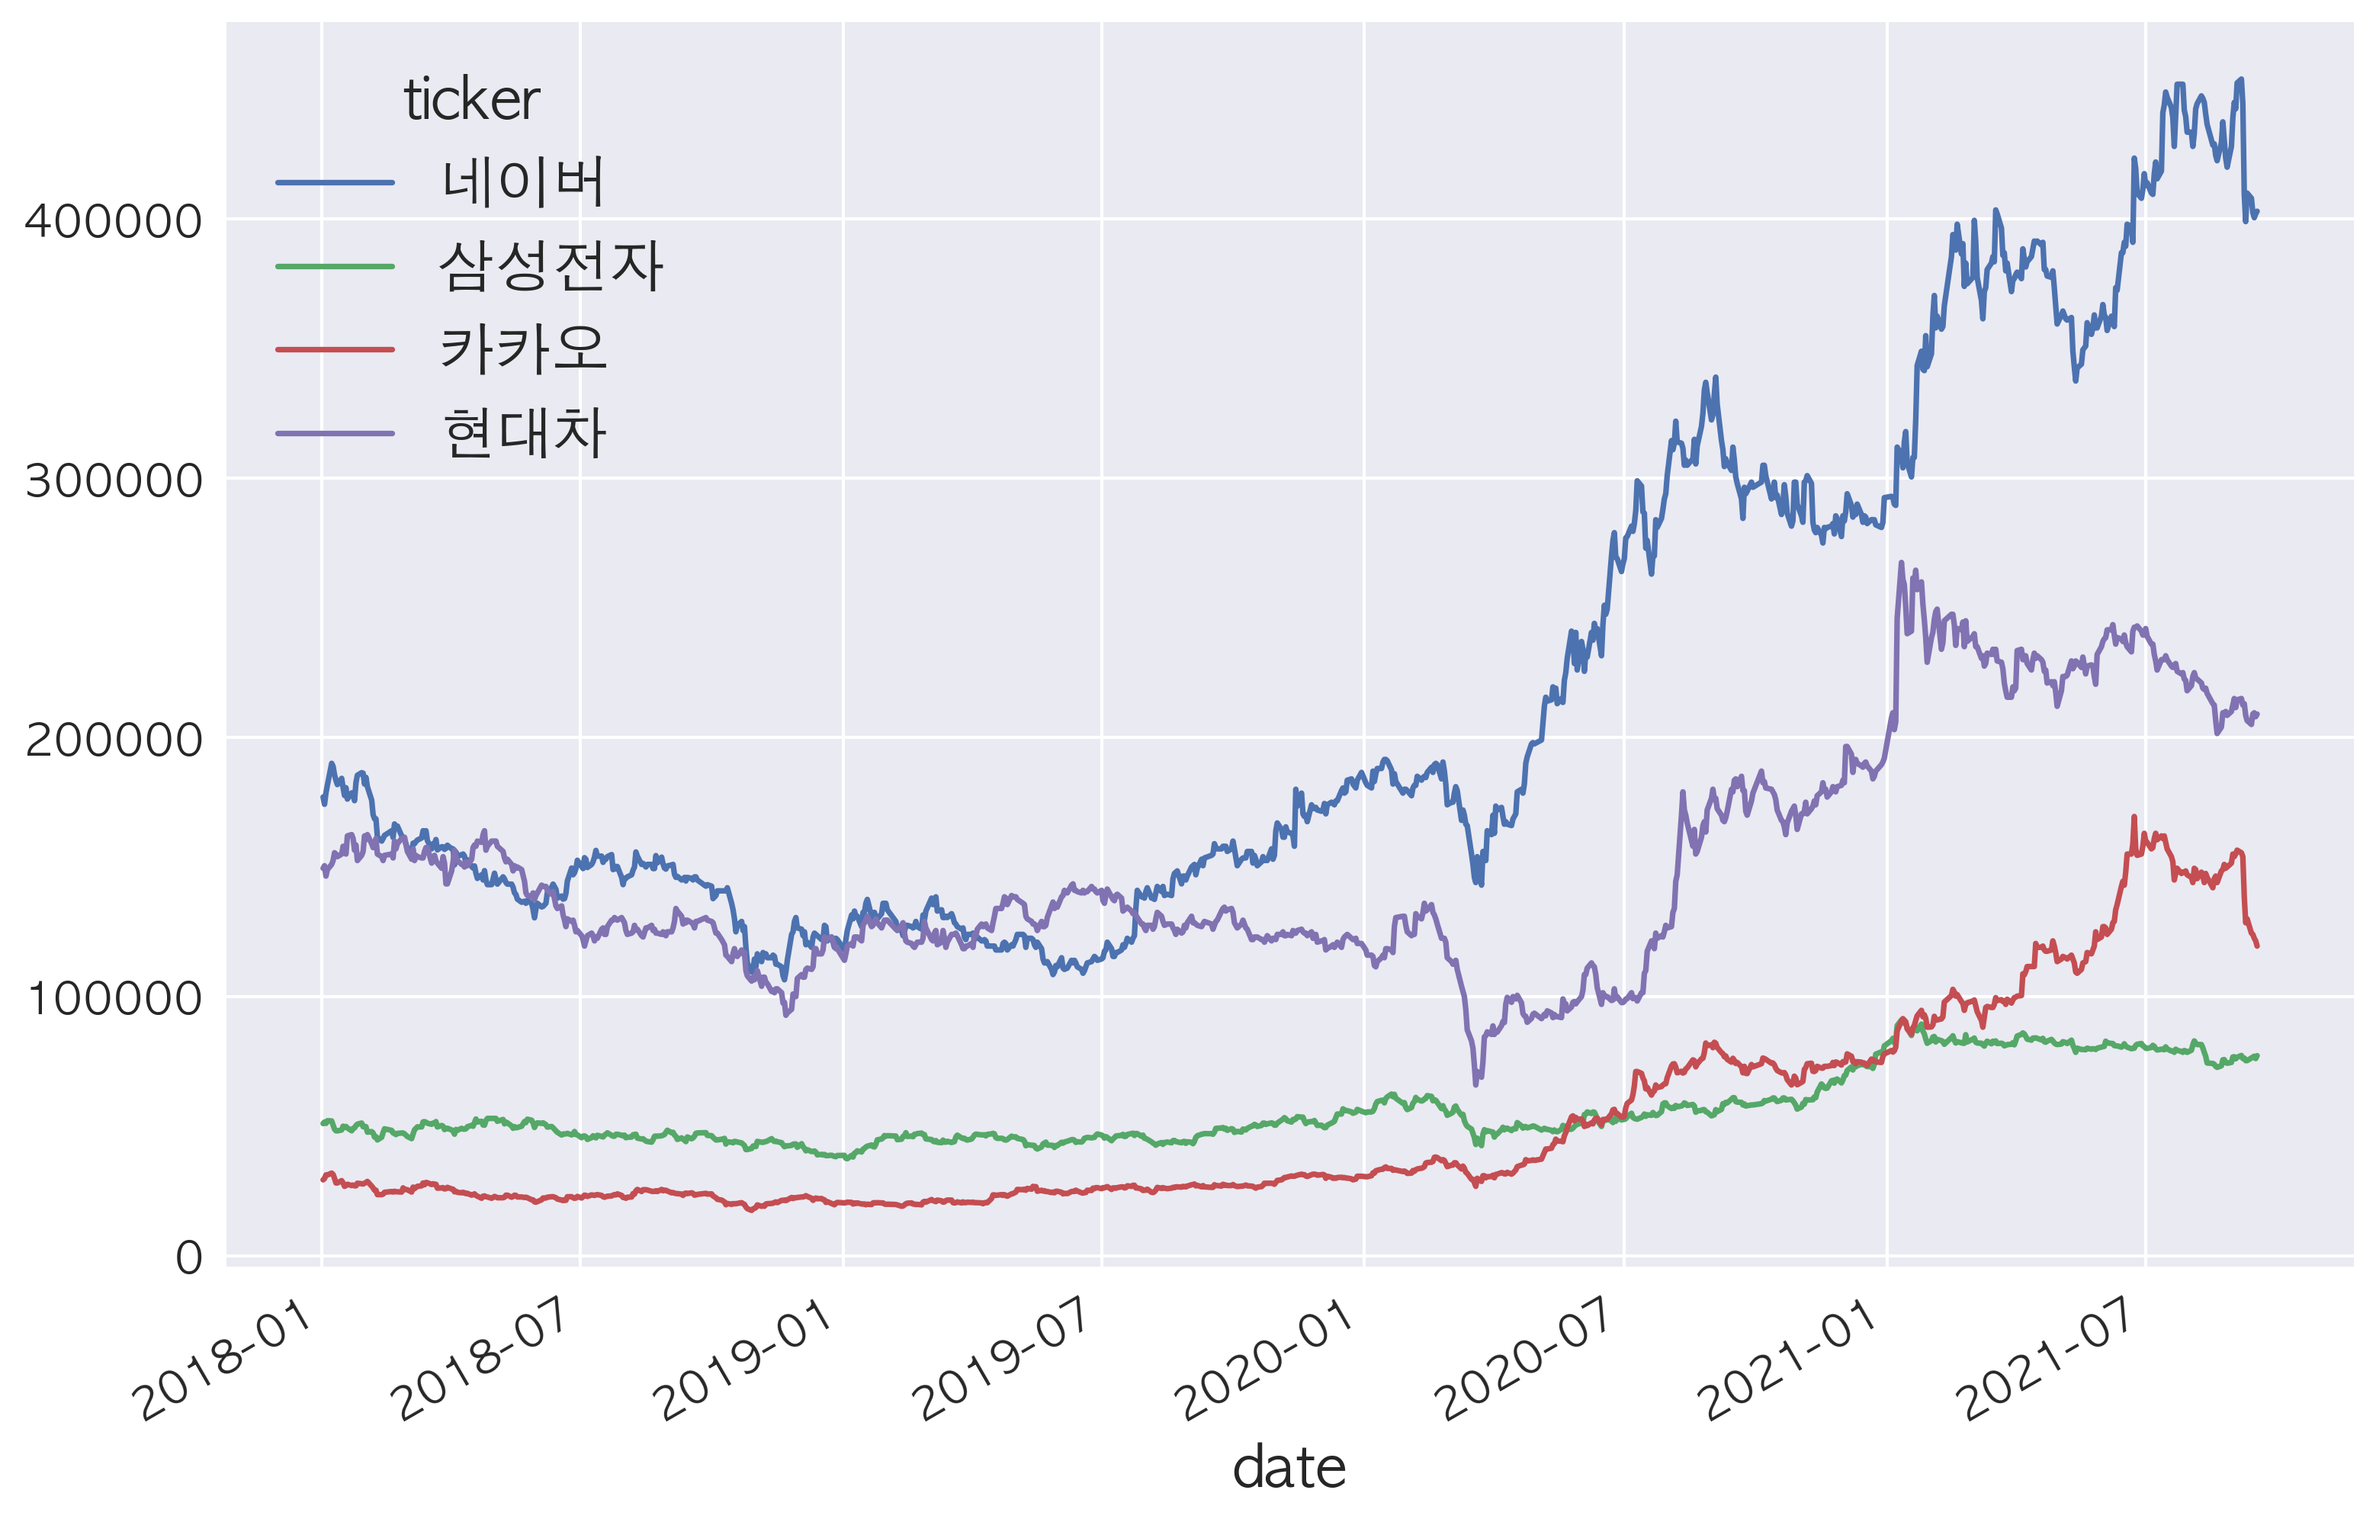
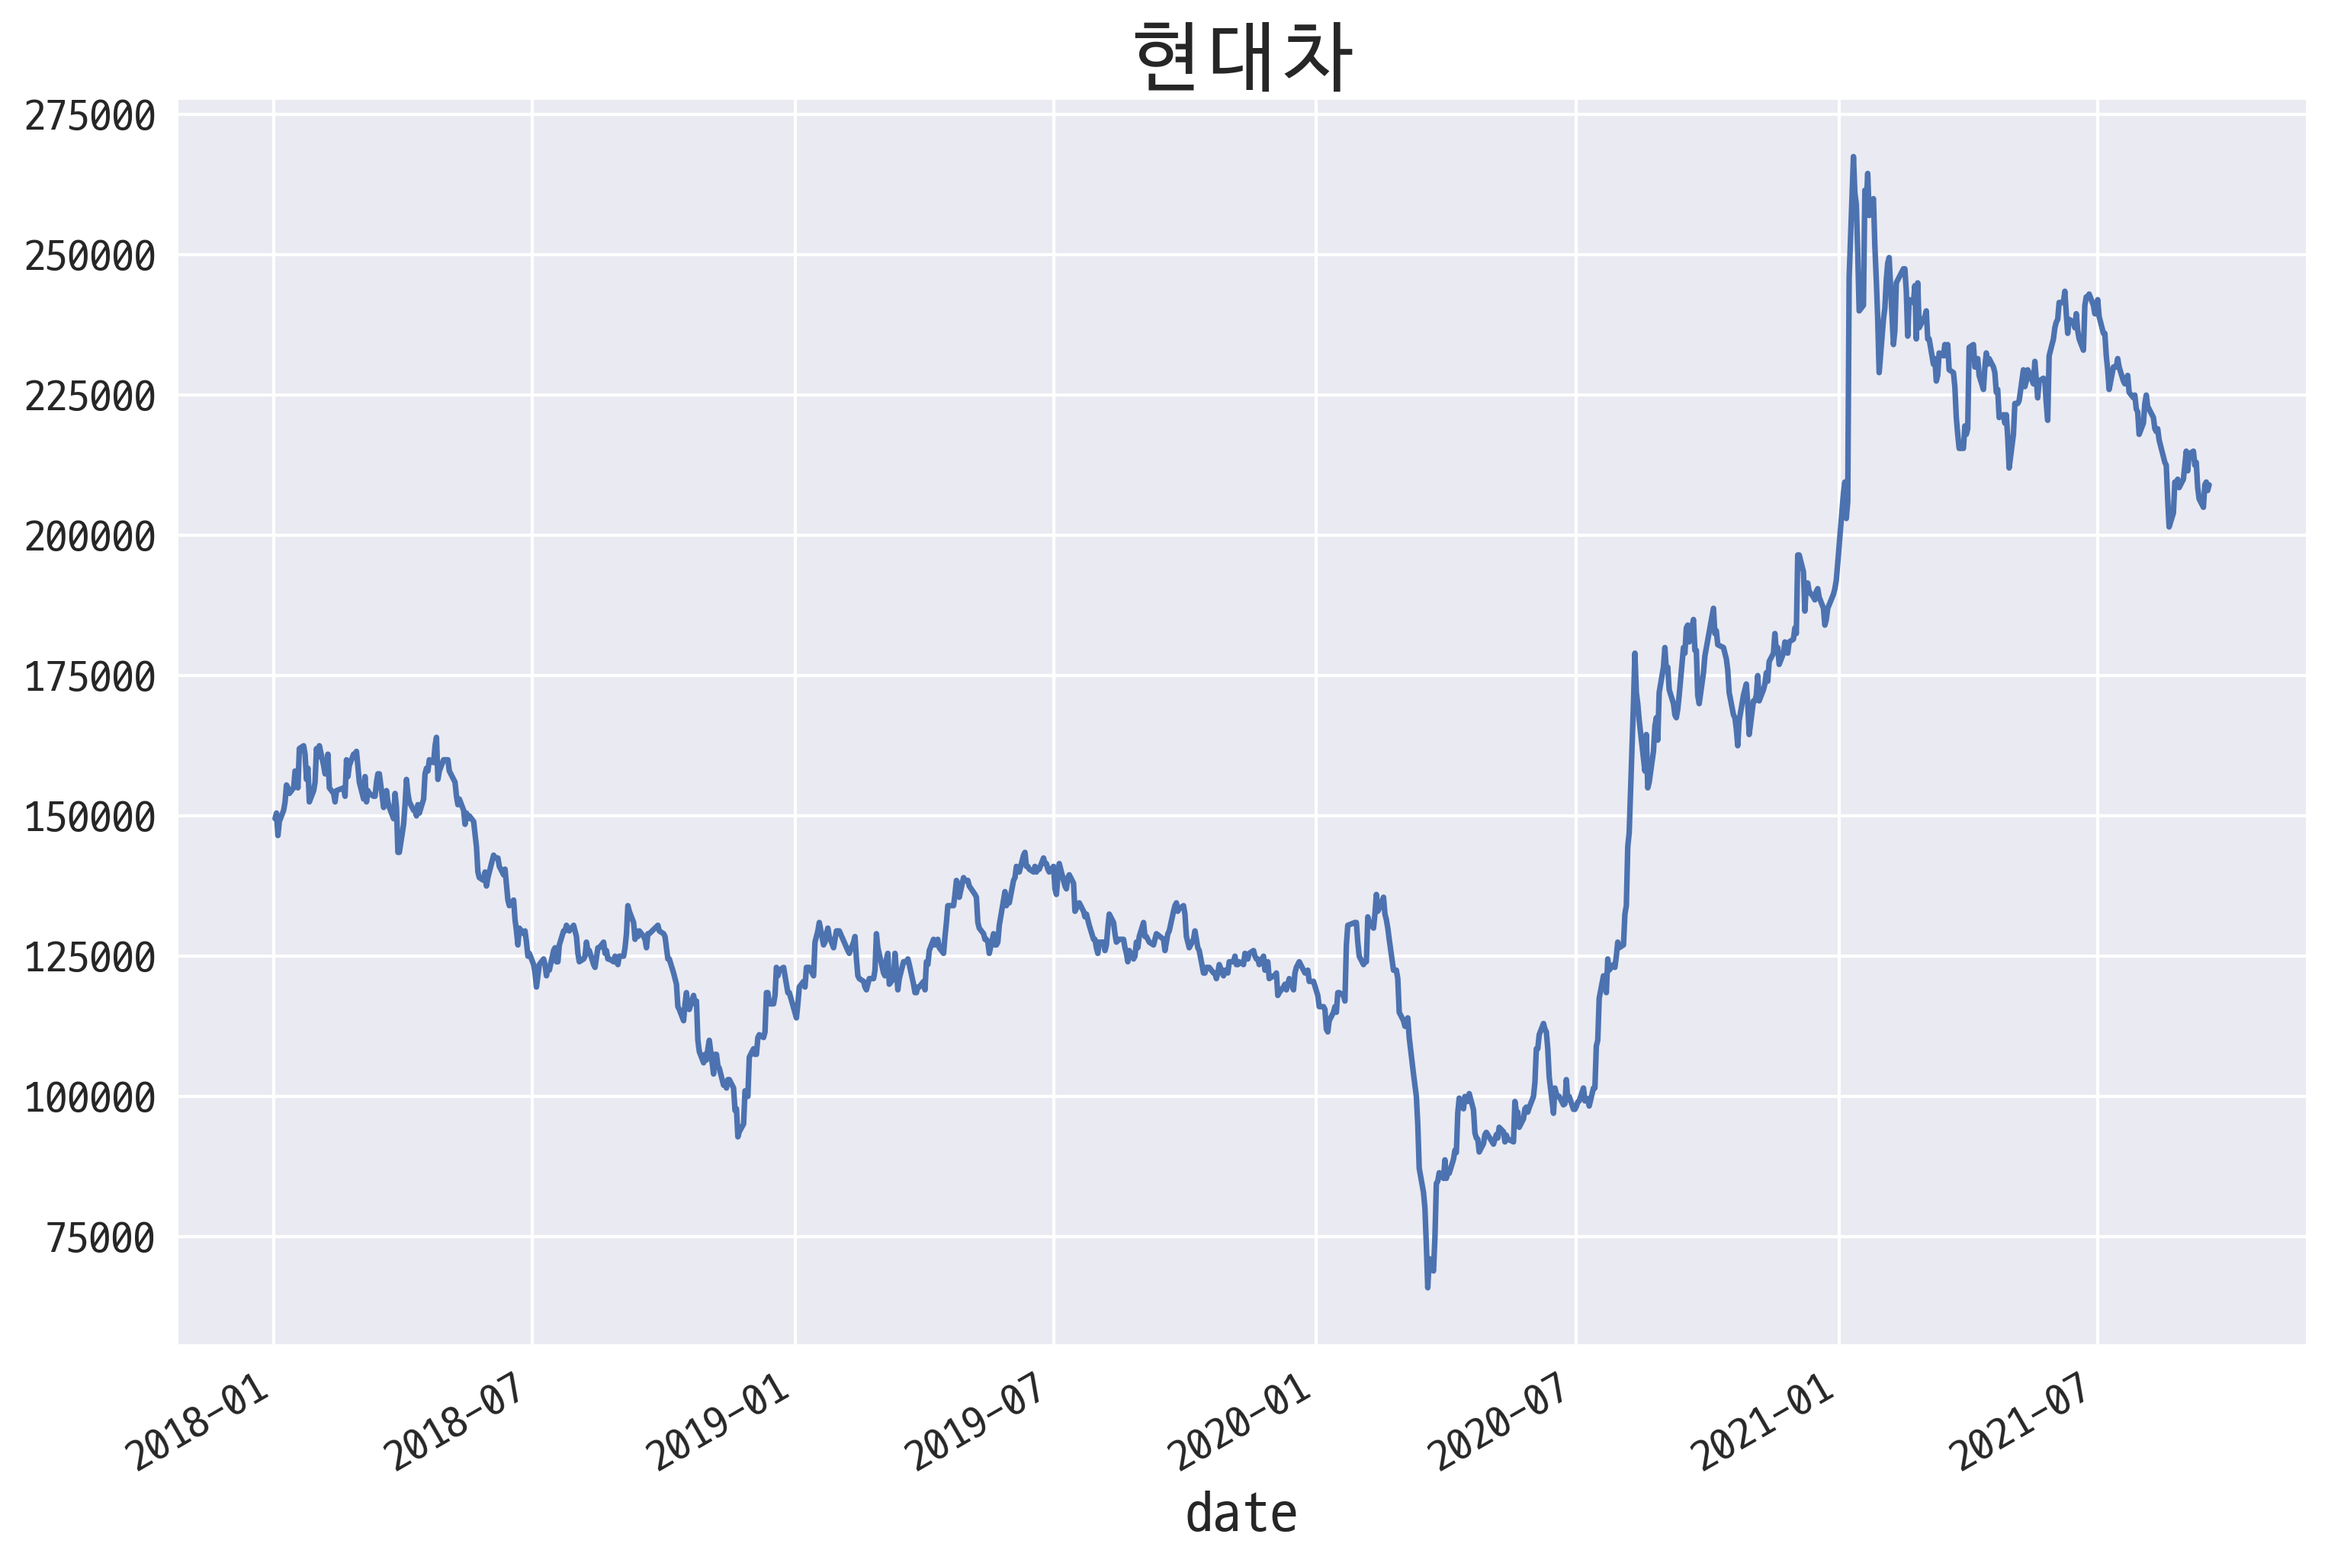
preprocessing

diff --git a/src/preprocessing2.py b/src/preprocessing2.py
@@ -6,12 +6,13 @@ import scipy.stats as scs
 import statsmodels.api as sm
 import statsmodels.tsa.api as smt
 
+from talib import RSI
 from datetime import datetime
 from icecream import ic
 
 plt.style.use("seaborn")
 plt.rcParams["axes.unicode_minus"] = False
-plt.rcParams["font.family"] = "AppleGothic"
+plt.rcParams["font.family"] = "D2Coding ligature"
 plt.rcParams["font.size"] = 18
 plt.rcParams["axes.titlesize"] = 24
 plt.rcParams["axes.labelsize"] = 18
@@ -25,16 +26,88 @@ plt.rcParams["figure.figsize"] = [12, 8]
 if __name__ == "__main__":
     src_data = "./data/stock1.pkl"
     tickers = {"현대차": "A005380", "삼성전자": "A005930", "네이버": "A035420", "카카오": "A035720"}
-
     data = pd.read_pickle(src_data)
     data = data.reset_index()
-    # data = data["2018":"2021"]
-    ic(data.head())
-    # data = data.loc[:, ["date", "close"]].reset_index()
-    # prices = data.pivot(index="date", columns="ticker", values="close")
-    # prices = prices["2018":"2021"]
-    # ic(prices.head())
+    data = data.set_index(["ticker", "date"]).drop("level_1", axis=1).sort_index()
+    data1 = data.loc[pd.IndexSlice["현대차", "2018":"2021"], :]
+    data2 = data.loc["현대차"]["2018":"2021"]
 
-    # prices.plot()
-    # plt.grid(True)
-    # plt.savefig("images/stocks01.png", bbox_inches="tight")
+    ic(data1.head())
+    ic(data1.index.names)
+    ic(data2.head())
+    ic(data2.index.names)
+
+    data2["close"].plot()
+    plt.title("현대차")
+    plt.savefig("images/stocks01.png", bbox_inches="tight")
+
+    data = data1.copy()
+    data["close_vol"] = data["close"].mul(data["volume"], axis=0)
+    data["close_vol1"] = (
+        data.groupby("ticker", group_keys=False, as_index=True)
+        .close_vol.rolling(window=20)
+        .mean()
+        .fillna(0)
+        .mul(1e-3)
+        .reset_index(level=0, drop=True)
+    )
+    data["vol_rank"] = data.groupby("date").close_vol.rank(ascending=False)
+    data["rsi"] = data.groupby(level="ticker").close.apply(RSI)
+    ic(data.tail())
+
+    fig, ax = plt.subplots(nrows=2, ncols=1)
+    data.loc["현대차"]["close"].plot(ax=ax[0])
+    data.loc["현대차"]["rsi"].plot(ax=ax[1])
+    plt.legend()
+    plt.savefig("images/stocks02.png", bbox_inches="tight")
+
+    lags = [1, 5, 10, 20, 40, 60]
+    returns = data.groupby(level="ticker").close.pct_change()
+    percentiles = [0.0001, 0.001, 0.01]
+    percentiles += [1 - p for p in percentiles]
+
+    ic(
+        returns.describe(percentiles=percentiles).iloc[2:]
+        # .to_frame("percentiles")
+        # .style.format(lambda x: f"{x:,.2%}")
+    )
+
+    q = 0.0001
+    for lag in lags:
+        data[f"return_{lag}d"] = (
+            data.groupby(level="ticker")
+            .close.pct_change(lag)
+            .pipe(lambda x: x.clip(lower=x.quantile(q), upper=x.quantile(1 - q)))
+            .add(1)
+            .pow(1 / lag)
+            .sub(1)
+        )
+
+    for t in [1, 2, 3, 4, 5]:
+        for lag in [1, 5, 10, 20]:
+            data[f"return_{lag}d_lag{t}"] = data.groupby(level="ticker")[f"return_{lag}d"].shift(
+                t * lag
+            )
+
+    for t in [1, 5, 10, 20]:
+        data[f"target_{t}d"] = data.groupby(level="ticker")[f"return_{t}d"].shift(-t)
+    ic(data.head())
+
+    data.iloc[:100].to_csv("data/price_lag.csv")
+
+    # data = data.join(stocks[["sector"]])
+    # data["year"] = data.index.get_level_values("date").year
+    # data["month"] = data.index.get_level_values("date").month
+    # data.info(show_counts=True)
+    # data.assign(sector=pd.factorize(data.sector, sort=True)[0]).to_hdf(
+    #     "../data/lin_models.h5", "model_data/no_dummies"
+    # )
+    # data = pd.get_dummies(
+    #     data,
+    #     columns=["year", "month", "sector"],
+    #     prefix=["year", "month", ""],
+    #     prefix_sep=["_", "_", ""],
+    #     drop_first=True,
+    # )
+    # data.info(show_counts=True)
+
